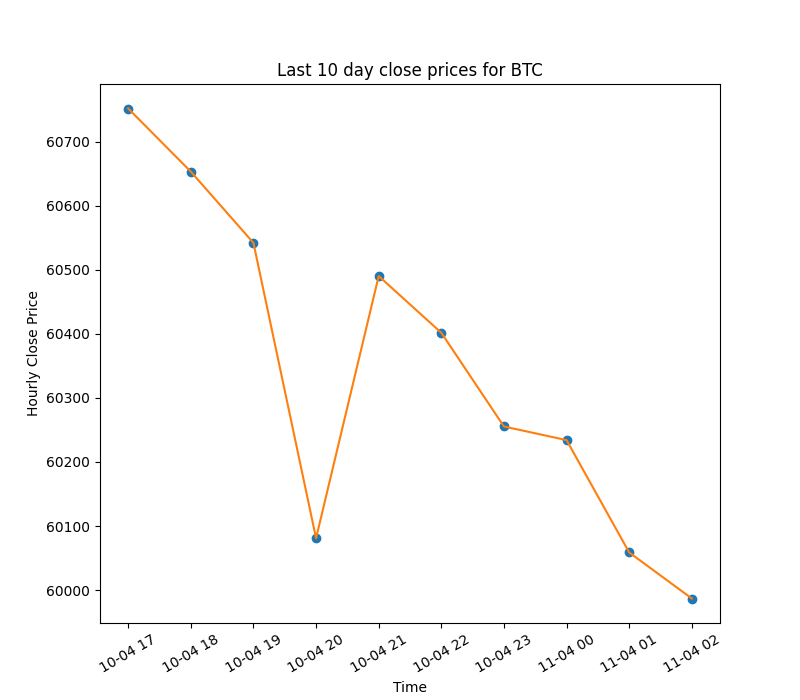
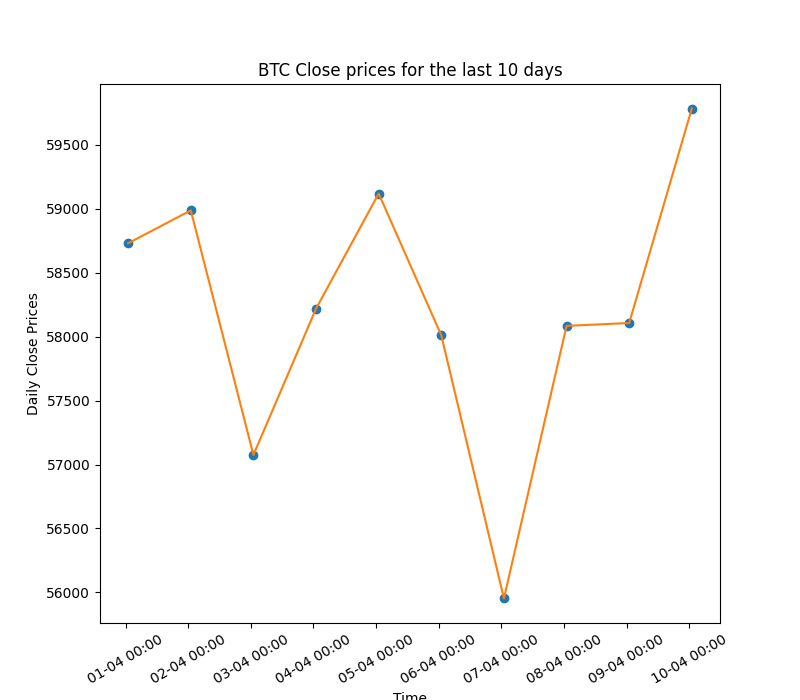
Added help function

diff --git a/bot.py b/bot.py
@@ -10,9 +10,6 @@ telegram_bot_token = "1710250957:AAHpexQYf2Sp3aFOoeXmuQbEe0opwA9F9Dw"
 updater = Updater(token=telegram_bot_token, use_context=True)
 dispatcher = updater.dispatcher
 
-# chat_id: {coin,isAbove,price}
-activeAlerts = {}
-
 def get(update, context):
     chat_id = update.effective_chat.id
     text = update.message.text
@@ -29,7 +26,7 @@ def get(update, context):
         day_high= crypto_data["day_high"]
         day_low= crypto_data["day_low"]
 
-        message = f"Ticker: {ticker}\nPrice: {price}\nHour Change: {change_hour}\nDay Change: {change_day:}\nMarket Cap: {market_cap}\nVolume Traded Today:{volume_day}\nOpening Price: {day_open}\nDay High: {day_high}\nDay Low: {day_low}\n\n"
+        message = f"Ticker: {ticker}\nCuurent Price: {price}\nHour Change: {change_hour}\nDay Change: {change_day:}\nMarket Cap: {market_cap}\nVolume Traded Today:{volume_day}\nDay Opening Price: {day_open}\nDay High: {day_high}\nDay Low: {day_low}\n\n"
 
         context.bot.send_message(chat_id=chat_id, text=message)
 
@@ -37,12 +34,17 @@ def get(update, context):
 
         context.bot.send_message(chat_id=chat_id, text="Coin not found")
 
-def photo(update, context):
-    chat_id = update.effective_chat.id
-    text = update.message.text
-    coin = text.split()[1]
-    path = get_graph_info(coin)
-    context.bot.send_photo(chat_id, photo=open(path, 'rb')) # sends a photo according to path
+def graph(update, context):
+    try:
+        chat_id = update.effective_chat.id
+        text = update.message.text.split()
+        coin = text[2]
+        rate = text[1]
+        path = get_graph_info(rate,coin)
+        context.bot.send_photo(chat_id, photo=open(path, 'rb')) # sends a photo according to path
+    except Exception as e:
+        print(e)
+        context.bot.send_message(chat_id=chat_id, text="Error while generating graph")
 
 # returns top X coins by market cap
 def top(update,context):
@@ -52,31 +54,31 @@ def top(update,context):
         coins = get_top_coins(10)
         message = ""
         for coin in coins:
-            message +=  f"Name: {coin['name']}\nTicker Symbol: {coin['ticker']}\nCurrent Price: {coin['price']}\nMarket Cap: {coin['market_cap']}\nVolume Traded Today: {coin['volume_day']}\nOpening Price: {coin['day_open']}\nDay High: {coin['day_high']}\nDay Low: {coin['day_low']}\n\n"
+            message +=  f"Name: {coin['name']}\nTicker Symbol: {coin['ticker']}\nCurrent Price: {coin['price']}\nMarket Cap: {coin['market_cap']}\nVolume Traded Today: {coin['volume_day']}\nDay Opening Price: {coin['day_open']}\nDay High: {coin['day_high']}\nDay Low: {coin['day_low']}\n\n"
 
         context.bot.send_message(chat_id=chat_id,text=message)
     except Exception as e:
         context.bot.send_message(chat_id=chat_id,text="Error")
 
 # polling function to be ran on a seperate thread
-def thread_poller(threadName,context):
+def thread_poller(chat_id,context,alert):
     # Time in seconds to delay thread
     DELAY = 5
-    global activeAlerts
     while True:
-        time.sleep(DELAY)
-        for chat_id,(coin,isAbove,threshold_price) in list(activeAlerts.items()):
-            data = get_prices(coin)
-            currentPrice = float(data["price"][1:].replace(',','')) # First character is the dollar sign
-            if isAbove:
-                if currentPrice > threshold_price:
-                    message = f"Price of {data['ticker']} is now at {data['price']} and above your threshold price of ${threshold_price}"
-                    context.bot.send_message(chat_id=chat_id,text=message)
-                    del activeAlerts[chat_id]
-            elif currentPrice < threshold_price:
-                message = f"Price of {data['ticker']} is now at {data['price']} and below your threshold price of ${threshold_price}"
+        coin,isAbove,threshold_price = alert
+        data = get_prices(coin)
+        currentPrice = float(data["price"][1:].replace(',','')) # First character is the dollar sign
+        if isAbove:
+            if currentPrice > threshold_price:
+                message = f"Price of {data['ticker']} is now at {data['price']} and above your threshold price of ${threshold_price}"
                 context.bot.send_message(chat_id=chat_id,text=message)
-                del activeAlerts[chat_id]
+                break
+        elif currentPrice < threshold_price:
+            message = f"Price of {data['ticker']} is now at {data['price']} and below your threshold price of ${threshold_price}"
+            context.bot.send_message(chat_id=chat_id,text=message)
+            break
+
+        time.sleep(DELAY)
 
 def alert(update,context):
     chat_id = update.effective_chat.id
@@ -91,19 +93,20 @@ def alert(update,context):
         
         threshold_price = float(text[3])
 
-        activeAlerts[chat_id]=(text[1],isAbove,threshold_price)
-        thread.start_new_thread(thread_poller,("T1",context))
+        alert=(text[1],isAbove,threshold_price)
+        thread.start_new_thread(thread_poller,(chat_id,context,alert))
     except Exception:
         context.bot.send_message(chat_id=chat_id,text="Invalid input format")
 
-def start(update, context):
+def help(update, context):
     chat_id = update.effective_chat.id
     text = update.message.text
-    update.message.reply_text('hello start') # message shown when user types /start
+    message = f'Hello. Thanks for using the CryptoAlert Bot 🤖 \n\nCommands available:\n/get <coin> -- Retrieve pricing data 💰 for a specific coin\n<coin> -- Ticker symbol of a coin\n\n/top -- Retrieve data for the largest 10 🎖 cyptocurrencies by market cap.\n\n/graph <rate> <coin> -- Plots a line graph 📈 of closing price for a particular coin over 10 counts of the specified interval \n<interval> -- Either "day", "hour" or "minute"\n<coin> -- Ticker symbol of a coin\n\n/alert <coin> <direction> <threshold> -- Sets an alert ⏰ that triggers when the price of the coin crosses the specified threshold \n<coin> -- Ticker symbol of a coin\n<direction> -- Either "above" or "below"\n<threshold> -- Price to cross'
+    update.message.reply_text(message)
 
-dispatcher.add_handler(CommandHandler("start", start)) # links /start with the start function
+dispatcher.add_handler(CommandHandler("help", help)) # links /start with the start function
 dispatcher.add_handler(CommandHandler("get", get)) # links /get with the get function
 dispatcher.add_handler(CommandHandler("top", top))
-dispatcher.add_handler(CommandHandler("photo", photo))
+dispatcher.add_handler(CommandHandler("graph", graph))
 dispatcher.add_handler(CommandHandler("alert",alert))
 updater.start_polling()

diff --git a/tracker.py b/tracker.py
@@ -23,9 +23,9 @@ def get_prices(coin):
 
     return data
 
-def get_graph_info(coin):
+def get_graph_info(rate,coin):
     crypto_data = requests.get(
-        "https://min-api.cryptocompare.com/data/v2/histohour?fsym={}&tsym=USD&limit=10&api_key=e0e92287f03538a81333536881f29373f6313f8fae8093c1526eb53703828f51".format(coin)).json()
+        "https://min-api.cryptocompare.com/data/v2/histo{}?fsym={}&tsym=USD&limit=10".format(rate,coin)).json()
     data = {}
     times = []
     price = []
@@ -40,16 +40,21 @@ def get_graph_info(coin):
     fig, ax = plt.subplots(figsize=(8, 7))
     plt.xticks(rotation=30)
 
-    plt.title('Last 10 day close prices for {}'.format(coin))
+    plt.title('{} Close prices for the last 10 {}s'.format(coin,rate))
     plt.xlabel('Time')
-    plt.ylabel('Hourly Close Price')
+    if rate == "hour":
+        label = "Hourly"
+    elif rate == "day":
+        label = "Daily"
+    elif rate == "minute":
+        label = "Minute"
+    plt.ylabel('{} Close Prices'.format(label))
     
     plt.plot_date(times, price)
     plt.plot(times,price)
 
-    date_form = DateFormatter("%d-%m %H")
+    date_form = DateFormatter("%d-%m %H:%M")
     ax.xaxis.set_major_formatter(date_form)
-    plt.show()
     path = "graphs/{}.png".format(coin)
     plt.savefig(path)
     
@@ -73,5 +78,3 @@ def get_top_coins(count):
 
     return coins
 
-if __name__ == "__main__":
-    get_graph_info("BTC")
